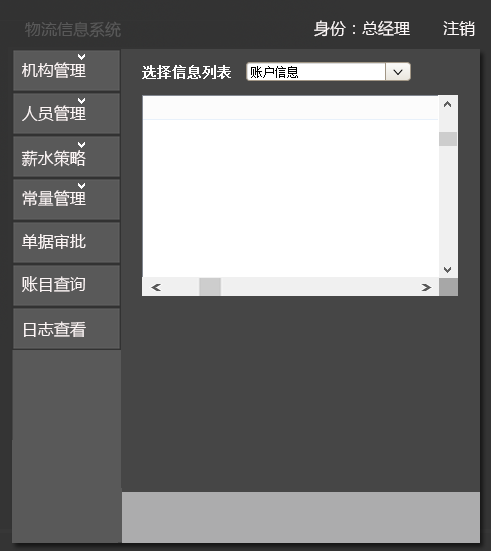
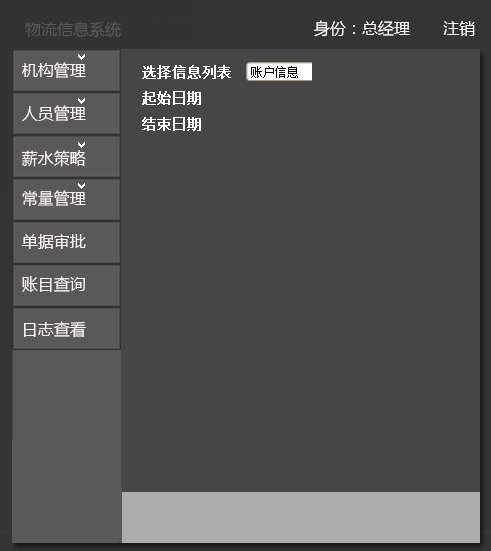
accountcheck

Changed region(s): [[0.2749, 0.0926, 0.947, 0.5554]]

diff --git a/ExpressSystem/client/src/main/java/nju/sec/yz/ExpressSystem/presentation/managerui/ManagerAccountCheck.java b/ExpressSystem/client/src/main/java/nju/sec/yz/ExpressSystem/presentation/managerui/ManagerAccountCheck.java
@@ -1,35 +1,221 @@
 package nju.sec.yz.ExpressSystem.presentation.managerui;
 
+import java.awt.Graphics;
+import java.awt.Image;
+import java.awt.event.ActionEvent;
+import java.awt.event.ActionListener;
+import java.awt.event.MouseAdapter;
+import java.awt.event.MouseEvent;
+import java.util.ArrayList;
+import java.util.List;
+
+import javax.swing.ImageIcon;
+import javax.swing.JButton;
+import javax.swing.JComboBox;
+import javax.swing.JLabel;
 import javax.swing.JPanel;
+import javax.swing.JScrollPane;
+import javax.swing.JTable;
+import javax.swing.table.DefaultTableModel;
+import javax.swing.table.TableModel;
 
 import nju.sec.yz.ExpressSystem.bl.accountbl.AccountController;
 import nju.sec.yz.ExpressSystem.bl.accountbl.FinanceController;
 import nju.sec.yz.ExpressSystem.blservice.accountBlService.AccountBlService;
 import nju.sec.yz.ExpressSystem.blservice.accountBlService.FinanceBlSevice;
+import nju.sec.yz.ExpressSystem.presentation.DateChooser;
 import nju.sec.yz.ExpressSystem.presentation.controlerui.ClientControler;
+import nju.sec.yz.ExpressSystem.vo.AccountVO;
+import nju.sec.yz.ExpressSystem.vo.BussinessVO;
+import nju.sec.yz.ExpressSystem.vo.OutVO;
+import nju.sec.yz.ExpressSystem.vo.PaymentSheetVO;
+import nju.sec.yz.ExpressSystem.vo.ProfitVO;
 
-public class ManagerAccountCheck extends JPanel{
+public class ManagerAccountCheck extends JPanel {
 
-	//账户信息
-	private AccountBlService account=new AccountController();
-	//经营情况表和成本收益表
-	private FinanceBlSevice finance=new FinanceController();
-	
+	// 账户信息
+	private AccountBlService account = new AccountController();
+	// 经营情况表和成本收益表
+	private FinanceBlSevice finance = new FinanceController();
+
 	private ClientControler maincontroler;
-	private  ManagerButtonComponent mbc;
-	
-	public ManagerAccountCheck(ClientControler maincontroler,ManagerButtonComponent mbc) {
-		this.maincontroler=maincontroler;
-		this.mbc=mbc;
+	private ManagerButtonComponent mbc;
+
+	private JComboBox choice;
+
+	private JTable table;
+	private JScrollPane jsc;
+	private TableModel model;
+
+	private Object[][] TableData;
+	private String[] title;
+
+	private JTable inTable;
+	private JTable outTable;
+	private JScrollPane inScroll;
+	private JScrollPane outScroll;
+	private DateChooser date1;
+	private DateChooser date2;
+	private JButton confirm;
+
+	private JLabel warning = new JLabel();
+
+	public ManagerAccountCheck(ClientControler maincontroler, ManagerButtonComponent mbc) {
+		this.maincontroler = maincontroler;
+		this.mbc = mbc;
 		iniManagerAccountCheck();
 	}
 
 	private void iniManagerAccountCheck() {
 		mbc.changePanel(this);
 		mbc.change();
-		
+
 		setLayout(null);
 		setSize(490, 550);
 		setVisible(true);
+
+		String[] choices = { "账户信息", "经营情况表", "成本收益表" };
+		choice = new JComboBox(choices);
+		choice.setBounds(244, 62, 80, 21);
+		add(choice);
+
+		choice.addActionListener(new ActionListener() {
+			public void actionPerformed(ActionEvent e) {
+				if (choice.getSelectedItem().equals("经营情况表")) {
+					remove(jsc);
+					iniOperate();
+				} else {
+					if (choice.getSelectedItem().equals("账户信息")) {
+						iniAccount();
+					} else {
+						// (choice.getSelectedItem().equals("成本收益表")) {
+						iniCost();
+					}
+					removeAll();
+					model = new DefaultTableModel(TableData, title);
+					table.setModel(model);
+					// table.repaint();
+					add(jsc);
+					add(choice);
+					mbc.add();
+					repaint();
+				}
+			}
+
+		});
+
+		TableData = null;
+		title = null;
+
+		model = new DefaultTableModel(TableData, title);
+		table = new JTable(model);
+		jsc = new JScrollPane(table);
+		jsc.setBounds(142, 91, 317, 199);
+		add(jsc);
+		jsc.setVisible(true);
+
 	}
+
+	private void iniCost() {
+		// TODO Auto-generated method stub
+		ProfitVO prvo = finance.makeCostReceipt();
+		TableData = new Object[1][3];
+		TableData[0][0] = prvo.in;
+		TableData[0][1] = prvo.out;
+		TableData[0][2] = prvo.profit;
+	}
+
+	private void iniOperate() {
+		// TODO Auto-generated method stub
+		
+		
+		date1 = new DateChooser(this, 210, 88);
+		date2 = new DateChooser(this, 210, 110);
+		
+		
+		String[] nameIn = new String[] { "收款日期", "收款金额", "收款人", "快递条形码号" };
+		String[] nameOut = new String[] { "付款日期 ", "付款金额", "付款人", "付款账号", "条目", "备注" };
+		String[][] dataIn = new String[][] { { "", "", "", "" } };
+		String[][] dataOut = new String[][] { { "", "", "", "", "", "" } };
+
+		ImageIcon confirmIcon = new ImageIcon("graphic/account/button/confirm_button.jpg");
+		inTable = new JTable(dataIn, nameIn);
+		inScroll = new JScrollPane(inTable);
+		inScroll.setBounds(144, 137, 320, 144);
+		add(inScroll);
+		outTable = new JTable(dataOut, nameOut);
+		outScroll = new JScrollPane(outTable);
+		outScroll.setBounds(144, 294, 320, 144);
+		add(outScroll);
+
+		confirm = new JButton(confirmIcon);
+		confirm.setBounds(392, 104, 72, 24);
+		confirm.addMouseListener(new MouseAdapter() {
+			public void mouseClicked(MouseEvent e) {
+				BussinessVO bvo = finance.checkBusinessCircumstance(date1.getTime(), date2.getTime());
+
+				ArrayList<PaymentSheetVO> in = (ArrayList<PaymentSheetVO>) bvo.in;
+				ArrayList<OutVO> out = (ArrayList<OutVO>) bvo.out;
+
+				
+				if (bvo != null) {
+					warning.setVisible(false);
+					// remove(inScroll);
+					// remove(outScroll);
+
+					int sizeIn = in.size();
+					int sizeOut = out.size();
+					String[][] dataIn = new String[sizeIn][4];
+					for (int i = 0; i < sizeIn; i++) {
+						dataIn[i][0] = in.get(i).getPaymentInformation().getTime();
+						dataIn[i][1] = Double.toString(in.get(i).getPaymentInformation().getAmount());
+						dataIn[i][0] = in.get(i).getPaymentInformation().getInDeliverId();
+						dataIn[i][0] = in.get(i).getBarIds();
+					}
+					inTable = new JTable(dataIn, nameIn);
+					String[][] dataOut = new String[sizeOut][6];
+					for (int i = 0; i < sizeOut; i++) {
+						dataOut[i][0] = out.get(i).getOutInformation().getDate();
+						dataOut[i][1] = Double.toString(out.get(i).getOutInformation().getNum());
+						dataOut[i][2] = out.get(i).getOutInformation().getPerson();
+						dataOut[i][3] = out.get(i).getOutInformation().getAccount();
+						dataOut[i][4] = out.get(i).getOutInformation().getReason();
+						dataOut[i][5] = out.get(i).getOutInformation().getComments();
+
+					}
+					outTable = new JTable(dataOut, nameOut);
+
+					inScroll = new JScrollPane(inTable);
+					outScroll = new JScrollPane(outTable);
+					repaint();
+				} else {
+					warning.setText("日期选择有误，请重新选择");
+					warning.setVisible(true);
+				}
+			}
+		});
+		add(confirm);
+	}
+
+	private void iniAccount() {
+		// TODO Auto-generated method stub
+		ArrayList<AccountVO> accountlist = account.observeList();
+//		TableData = new Object[accountlist.size()][2];
+//		for (int i = 0; i < accountlist.size(); i++) {
+//			TableData[i][0] = accountlist.get(i).getName();
+//			TableData[i][1] = accountlist.get(i).getBalance();
+//		}
+		String[] title = { "账号", "余额" };
+
+	}
+
+	@Override
+	public void paintComponent(Graphics g) {
+
+		Image img01 = new ImageIcon("graphic/manager/background/background19.png").getImage();
+
+		g.drawImage(img01, 0, 0, 490, 550, null);
+
+	}
+
 }

diff --git a/ExpressSystem/client/src/main/java/nju/sec/yz/ExpressSystem/presentation/managerui/ManagerLogCheck.java b/ExpressSystem/client/src/main/java/nju/sec/yz/ExpressSystem/presentation/managerui/ManagerLogCheck.java
@@ -4,6 +4,7 @@ import javax.swing.JPanel;
 
 import nju.sec.yz.ExpressSystem.bl.accountbl.LogController;
 import nju.sec.yz.ExpressSystem.blservice.accountBlService.LogBlService;
+import nju.sec.yz.ExpressSystem.presentation.DateChooser;
 import nju.sec.yz.ExpressSystem.presentation.controlerui.ClientControler;
 
 public class ManagerLogCheck extends JPanel{
@@ -11,6 +12,8 @@ public class ManagerLogCheck extends JPanel{
 	private LogBlService log=new LogController();
 	private ClientControler maincontroler;
 private  ManagerButtonComponent mbc;
+
+private DateChooser date;
 	
 	public ManagerLogCheck(ClientControler maincontroler,ManagerButtonComponent mbc) {
 		this.maincontroler=maincontroler;
@@ -25,5 +28,8 @@ private  ManagerButtonComponent mbc;
 		setLayout(null);
 		setSize(490, 550);
 		setVisible(true);
+		
+		date=new DateChooser(this,259,63);
+		
 	}
 }
